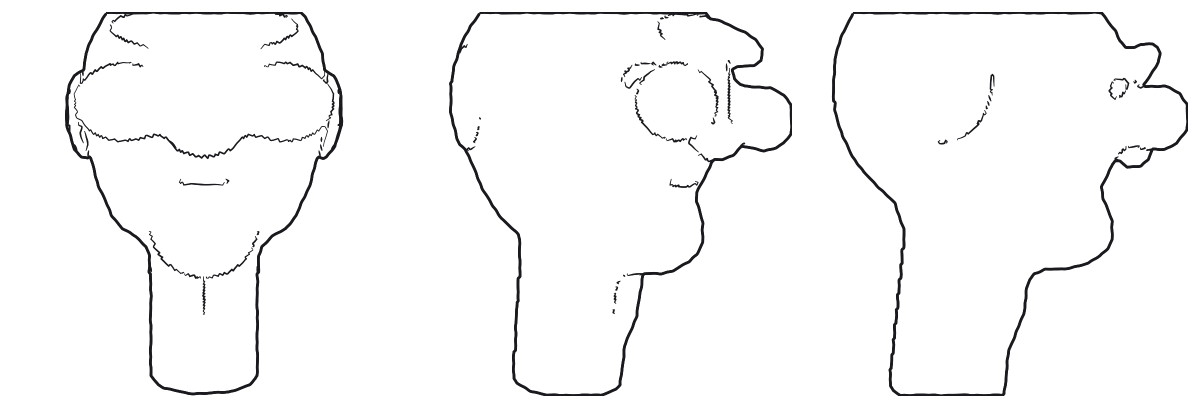
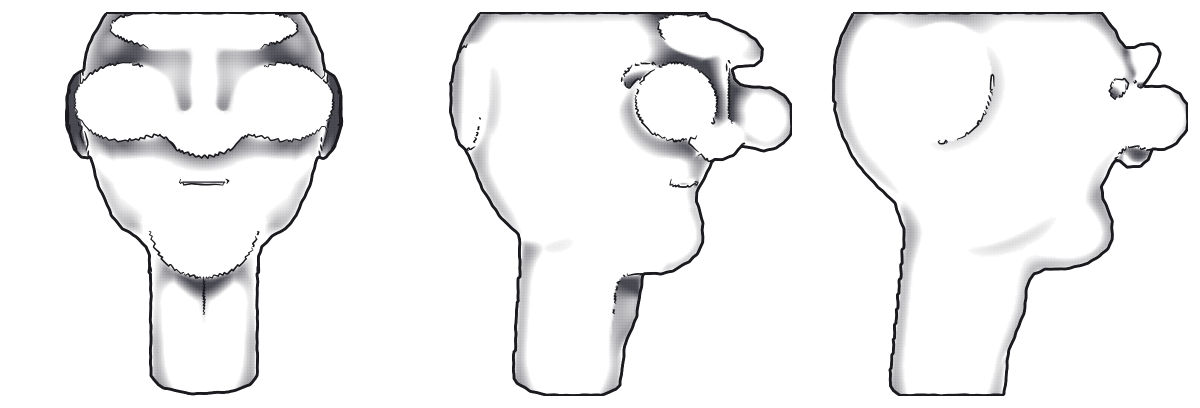
SDF head: screen-space cavity tone for recessed sockets
Shade hollows with tone instead of outlining them, so the eye region reads
as a recess (skull/wraith anchor) not a convex eyeball:
- cheap SDF ambient occlusion in the G-buffer
- screen-space depth-cavity fill (depth - masked box-blur envelope)
- facing-gate rejects the grazing silhouette fringe
Front reads recessed under the brow. Open: socket-rim ring on tq/profile,
partial socket fill.

diff --git a/face-lib/spike/ink-head.ts b/face-lib/spike/ink-head.ts
@@ -75,13 +75,29 @@ const normalAt = (sdf: SDF, p: Vec3): Vec3 => {
   ]);
 };
 
-type GBuf = { hit: Uint8Array; depth: Float32Array; nx: Float32Array; ny: Float32Array; nz: Float32Array };
+// Cheap SDF ambient occlusion: march a few steps along the surface normal and
+// measure how much the field undershoots the free-space distance. Concavities
+// (eye sockets, under the brow ridge, under nose + jaw) come back occluded.
+// This is what makes a recess READ as a recess instead of an outlined bulge.
+const ambientOcclusion = (sdf: SDF, p: Vec3, n: Vec3): number => {
+  let occ = 0, sca = 1;
+  for (let i = 1; i <= 6; i++) {
+    const h = 0.022 * i;           // sample out to ~0.13 (head half-width ~0.5)
+    const d = sdf([p[0] + n[0] * h, p[1] + n[1] * h, p[2] + n[2] * h]);
+    occ += (h - d) * sca;
+    sca *= 0.88;
+  }
+  return Math.max(0, Math.min(1, 1 - 4.5 * occ)); // 1 = open, 0 = deep recess
+};
+
+type GBuf = { hit: Uint8Array; depth: Float32Array; nx: Float32Array; ny: Float32Array; nz: Float32Array; ao: Float32Array };
 const renderGBuffer = (sdf: SDF, cam: Camera): GBuf => {
   const hit = new Uint8Array(IMG * IMG);
   const depth = new Float32Array(IMG * IMG);
   const nx = new Float32Array(IMG * IMG);
   const ny = new Float32Array(IMG * IMG);
   const nz = new Float32Array(IMG * IMG);
+  const ao = new Float32Array(IMG * IMG);
   for (let py = 0; py < IMG; py++) {
     const v = 1 - (2 * (py + 0.5)) / IMG;
     for (let px = 0; px < IMG; px++) {
@@ -97,10 +113,11 @@ const renderGBuffer = (sdf: SDF, cam: Camera): GBuf => {
         hit[i] = 1; depth[i] = r.t;
         const n = normalAt(sdf, r.p);
         nx[i] = n[0]; ny[i] = n[1]; nz[i] = n[2];
+        ao[i] = ambientOcclusion(sdf, r.p, n);
       }
     }
   }
-  return { hit, depth, nx, ny, nz };
+  return { hit, depth, nx, ny, nz, ao };
 };
 
 // ---------------- silhouette via Moore boundary following ----------------
@@ -230,16 +247,69 @@ const simplify = (pts: Pt[], eps: number): Pt[] => {
   return [a, b];
 };
 
+// Separable box blur of depth, averaged over HIT pixels only (so the
+// background never bleeds into the silhouette). Returns the local surface
+// depth envelope; depth - blur = how recessed a pixel is.
+const blurDepthOverHits = (g: GBuf, R: number): Float32Array => {
+  const sH = new Float32Array(IMG * IMG), cH = new Float32Array(IMG * IMG);
+  for (let y = 0; y < IMG; y++) {
+    for (let x = 0; x < IMG; x++) {
+      let s = 0, c = 0;
+      for (let dx = -R; dx <= R; dx++) {
+        const xx = x + dx;
+        if (xx < 0 || xx >= IMG) continue;
+        const j = y * IMG + xx;
+        if (g.hit[j]) { s += g.depth[j]; c++; }
+      }
+      sH[y * IMG + x] = s; cH[y * IMG + x] = c;
+    }
+  }
+  const out = new Float32Array(IMG * IMG);
+  for (let y = 0; y < IMG; y++) {
+    for (let x = 0; x < IMG; x++) {
+      let s = 0, c = 0;
+      for (let dy = -R; dy <= R; dy++) {
+        const yy = y + dy;
+        if (yy < 0 || yy >= IMG) continue;
+        s += sH[yy * IMG + x]; c += cH[yy * IMG + x];
+      }
+      out[y * IMG + x] = c > 0 ? s / c : g.depth[y * IMG + x];
+    }
+  }
+  return out;
+};
+
 // ---------------- render one view to a Canvas ----------------
 const SS = 3; // supersample factor for ink
 const renderView = (sdf: SDF, yaw: number, pitch: number) => {
-  const g = renderGBuffer(sdf, makeCamera(yaw, pitch));
+  const cam = makeCamera(yaw, pitch);
+  const g = renderGBuffer(sdf, cam);
   const cv = new Canvas(IMG * SS, IMG * SS);
   const ink = (poly: Pt[], width: number, seed: number, closed = false) => {
     const s = simplify(poly, 0.8).map((p) => ({ x: p.x * SS, y: p.y * SS }));
     if (s.length < 2) return;
     cv.stroke(s, { width, color: [25, 25, 30], wobble: 1.1, seed, closed, taper: !closed });
   };
+  // Tone first (under the strokes): darken the RECESSES so hollows read as
+  // hollows. Screen-space depth cavity — how much further a pixel is than its
+  // neighbourhood — fills the whole socket (deepest = darkest), unlike
+  // normal-AO which leaves the socket floor bright (a donut that reads convex).
+  // The core shades the SOCKET; it does not draw the eye.
+  const blur = blurDepthOverHits(g, 16);
+  for (let y = 0; y < IMG; y++) for (let x = 0; x < IMG; x++) {
+    const i = y * IMG + x;
+    if (!g.hit[i]) continue;
+    // Reject the grazing silhouette fringe: only shade pixels that FACE the
+    // camera. At the limb the surface turns away (facing -> 0) and depth rises
+    // for free — that is not a real cavity, so gate it out.
+    const facing = -(g.nx[i] * cam.forward[0] + g.ny[i] * cam.forward[1] + g.nz[i] * cam.forward[2]);
+    if (facing < 0.35) continue;
+    const cavity = g.depth[i] - blur[i];        // >0 = recessed behind surround
+    if (cavity <= 0.01) continue;
+    const a = Math.min(0.8, (cavity - 0.01) * 11) * Math.min(1, (facing - 0.35) / 0.4);
+    if (a <= 0.02) continue;
+    cv.stamp((x + 0.5) * SS, (y + 0.5) * SS, SS * 0.7, [50, 50, 60], a);
+  }
   // silhouette (heaviest) — one closed outer loop
   ink(mooreTrace(g.hit, IMG, IMG), 5.5, 100, true);
   // interior creases / depth-steps (lighter)
